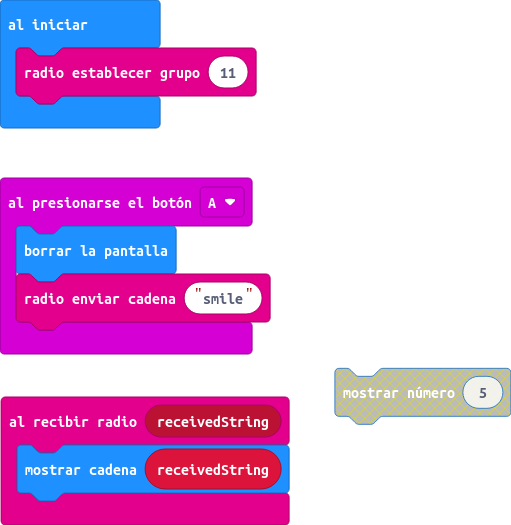
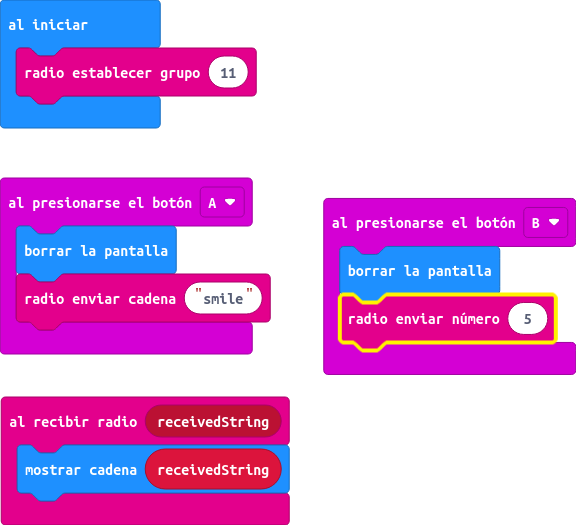
Actualizar main.blocks, main.ts

diff --git a/main.ts b/main.ts
@@ -5,4 +5,8 @@ input.onButtonPressed(Button.A, function () {
 radio.onReceivedString(function (receivedString) {
     basic.showString(receivedString)
 })
+input.onButtonPressed(Button.B, function () {
+    basic.clearScreen()
+    radio.sendNumber(5)
+})
 radio.setGroup(11)
